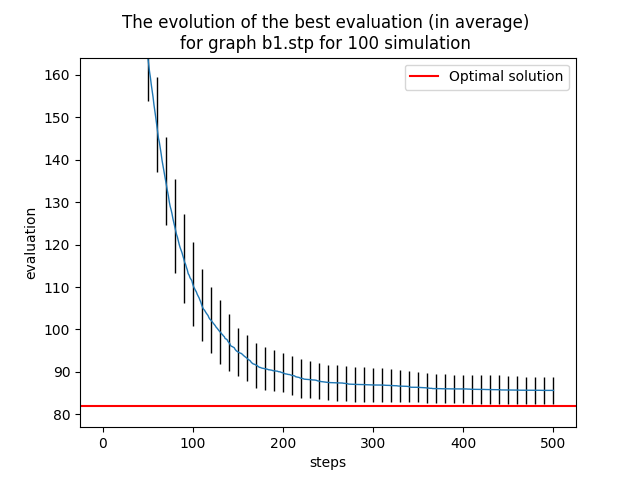
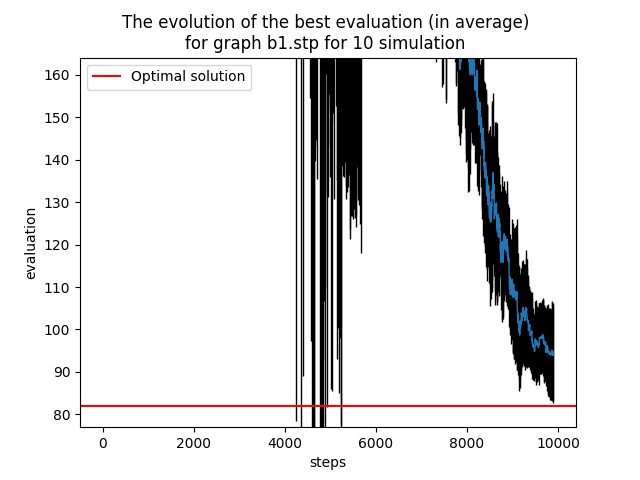
annealing, simulations modified -> recuit added a best_list return

diff --git a/main.py b/main.py
@@ -1,5 +1,6 @@
 import Approximation
 import Genetic_Algorithm as GA
+import Annealing_Algorithm as AA
 import matplotlib.pyplot as plt
 import numpy as np
 
@@ -55,49 +56,36 @@ def simulation_Approximation() :
         print(Approximation.eval_sol(graph,terms,sol))
     """
 
-def simulation_Genetic_evolution_best_evaluation():
+def simulation_GA():
     number_of_simulation = 100
-    results = [(None, None) for _ in range (number_of_simulation)]
-    res = [None for _ in range(number_of_simulation)]
-    nfile = 2
+    nfile = 1
     tfile = 'b'
     path = path_B
     if tfile == 'c':
         path = path_C
-    #simulation on b1.stp
-    for i in range(len(res)):
-        print(f'SIMULATION {i+1}: ')
-        GA.eval_file2(nfile, path+tfile, results, i)
-        res[i] = results[i][1]
-        #plt.plot(range(len(results[i][1])),res[i], color = '#7DD6CA')
-    average_values = [0 for i in range(len(res[0]))]
-    error_values = [0 for i in range(len(average_values))]
-    for i in range(len(res)):
-        for j in range(len(average_values)):
-            average_values[j] += res[i][j]
-    average_values = np.array(average_values) / number_of_simulation
-    for i in range(len(res)):
-        for j in range(len(error_values)):
-            if (j%10==0):
-                error_values[j] += (res[i][j] - average_values[j])**2
-    for i in range(len(error_values)):
-        error_values[i] = np.sqrt(error_values[i]/ number_of_simulation)
-
-    print(average_values[-1])
-    print(error_values[-1])
-
-
-
-    plt.errorbar(range(len(average_values)),average_values,yerr = error_values, ecolor = "black", linewidth = 1, elinewidth = 1)
-
-    #for i in range(len(res)):
-    #   print(f'{i+1}eme liste : {min(res[i])}')
-    #plt.scatter(range(number_of_simulation),[res[i][-1] for i in range(25)])
     opt = 0
     if tfile == 'b':
         opt = B_opts[nfile-1]
     else:
         opt = C_opts[nfile-1]
+    results = GA.simulation(number_of_simulation,nfile,path+tfile)
+    res = [np.array(p[1]) for p in results]
+    
+    average_values = np.zeros(len(res[0]))
+    for r in res:
+        average_values =average_values + r
+    average_values = np.array(average_values) / number_of_simulation
+    
+    error_values = [0 for i in range(len(average_values))]
+    for j in range(len(error_values)):
+        if j%10==0 :
+            for i in range(len(res)):
+                error_values[j] += (res[i][j] - average_values[j])**2
+            error_values[j] = np.sqrt(error_values[j]/number_of_simulation)
+
+    plt.errorbar(range(len(average_values)),average_values,yerr = error_values, ecolor = "black", linewidth = 1, elinewidth = 1)
+
+
     plt.axhline(opt, color='red', label = "Optimal solution")
     plt.title(f'The evolution of the best evaluation (in average) \nfor graph {tfile}{nfile}.stp for {number_of_simulation} simulation ')
     plt.xlabel("steps")
@@ -107,6 +95,51 @@ def simulation_Genetic_evolution_best_evaluation():
     plt.savefig(f'best_{tfile}{nfile}_evaluation_genetic_ones_init.png')
     plt.show()
 
+
+
+
+def simulation_recuit():
+    number_of_simulation = 10
+    nfile = 1
+    tfile = 'b'
+    path = path_B
+    if tfile == 'c':
+        path = path_C
+    opt = 0
+    if tfile == 'b':
+        opt = B_opts[nfile-1]
+    else:
+        opt = C_opts[nfile-1]
+    results = AA.simulation(number_of_simulation,nfile,path+tfile)
+    res = [np.array(p[1]) for p in results]
+    
+    average_values = np.zeros(len(res[0]))
+    for r in res:
+        average_values =average_values + r
+    average_values = np.array(average_values) / number_of_simulation
+    
+    error_values = [0 for i in range(len(average_values))]
+    for j in range(len(error_values)):
+        if j%10==0 :
+            for i in range(len(res)):
+                error_values[j] += (res[i][j] - average_values[j])**2
+            error_values[j] = np.sqrt(error_values[j]/number_of_simulation)
+
+    plt.errorbar(range(len(average_values)),average_values,yerr = error_values, ecolor = "black", linewidth = 1, elinewidth = 1)
+
+
+    plt.axhline(opt, color='red', label = "Optimal solution")
+    plt.title(f'The evolution of the best evaluation (in average) \nfor graph {tfile}{nfile}.stp for {number_of_simulation} simulation ')
+    plt.xlabel("steps")
+    plt.ylabel("evaluation")
+    plt.legend()
+    plt.ylim((opt-5,max(opt*2,average_values[-1]+10)))
+    plt.savefig(f'best_{tfile}{nfile}_evaluation_genetic_ones_init.png')
+    plt.show()
+
+
+
+    
 if __name__ == '__main__' :
     print('Simulation begins')
     print('------------------------------------------------------------------------------------')
@@ -118,13 +151,13 @@ if __name__ == '__main__' :
     print('------------------------------------------------------------------------------------')
     print('processing simulation for Genetic_Algorithm.py')
     print(f'best for c1 = {C_opts[0]}')
-    res = [(None, None), None]
-    GA.eval_file(1, path_C+'c', res, 0)
-    print(f'genetic = {res[0][0]}')
-    Approximation.eval_file(0, path_C+'c', res, 1)
-    print(f'Approximation = {res[1]}')
-    plt.plot(range(len(res[0][1])), res[0][1])
-    plt.show()
-    #simulation_Genetic_evolution_best_evaluation()
+    #res = [(None, None), None]
+    #GA.eval_file(1, path_C+'c', res, 0)
+    #print(f'genetic = {res[0][0]}')
+    #Approximation.eval_file(0, path_C+'c', res, 1)
+    #print(f'Approximation = {res[1]}')
+    #plt.plot(range(len(res[0][1])), res[0][1])
+    #plt.show()
+    simulation_recuit()
     print('simulation for Genetic_Algorithm.py done')
     print('++++++++++++++++++++++++++++++++++++++++++++++++++++++++++++++++++++++++++++++++++++')

diff --git a/Annealing_Algorithm.py b/Annealing_Algorithm.py
@@ -15,11 +15,12 @@ def recuit(graph : nx.Graph, terms : list, T_init, T_limit, lamb = .99) -> set :
     :param terms: the list of terminal nodes
     :param T_init: the initial temperature
     :param T_limit: the lowest temperature allowed
-    :return: the solution found which is a set of edges
+    :return: the solution found which is a set of edges and the evolution of the best evaluation
     """
     best = init(graph)
     T = T_init
     eval_best = eval_annealing(best, graph, terms)
+    best_list = [eval_best]
     m = 0
     #sol = init(graph)
     while(T>T_limit):
@@ -29,19 +30,20 @@ def recuit(graph : nx.Graph, terms : list, T_init, T_limit, lamb = .99) -> set :
             prob = 1
         else :
             prob = exp((eval_best - eval_sol)/T)
-            print(f'prob = {prob}')
+            #print(f'prob = {prob}')
         rand = rd.random()
         if rand <= prob :
             best = cp.deepcopy(sol)
             eval_best = eval_sol
-            print('best changed !!!!!!!!!!!!!!!!!')
-        print(f'eval_sol = {eval_sol}')
-        print(f'eval_best = {eval_best}')
+            #print('best changed !!!!!!!!!!!!!!!!!')
+        #print(f'eval_sol = {eval_sol}')
+        #print(f'eval_best = {eval_best}')
         T *= lamb
         m += 1
-    print(f'm = {m}')
-    print(eval_best)
-    return Genetic_Algorithm.bool_to_edges(best, [e for e in graph.edges])
+        best_list.append(eval_best)
+    #print(f'm = {m}')
+    #print(eval_best)
+    return Genetic_Algorithm.bool_to_edges(best, [e for e in graph.edges]), best_list
 
 def init(graph):
     """
@@ -61,7 +63,7 @@ def eval_annealing(sol, graph, terms : list, malus = 500):
     :param graph: the graph for each we search a solution
     :param terms: the list of terminal nodes
     :param malus: the coefficient that we use to penalize bad solutions
-    :return: the evaluation of the solution which is an integer
+    :return: the evaluation of the solution that is an integer
     """
     graph_sol = nx.Graph()
     nb_absent_terms = len(terms)
@@ -101,6 +103,50 @@ def rand_neighbor(solution : list, nb_changes = 1) :
         i = rd.choice(range(len(new_solution)))
         new_solution[i] = not new_solution[i]
     return new_solution
+
+
+def eval_file(number_file : int, path : str, res : list, i : int):
+    """
+    Given the file_s number, this function finds a solution for the associated graph and store it in the list passed as argument
+    :param number_file : the file's number
+    :param path : the path to the file
+    :param res : the list in which the result will be stored in
+    :param i : the index of the free place in the list
+    :return : the total weight of the solution
+    """
+
+    print(f'Processing file {path+str(number_file)}.stp begins for recuit algorithm.\n')
+    my_class = Approximation.MySteinlibInstance()
+    with open(path+f'{number_file}.stp') as file:
+        my_parser = Approximation.SteinlibParser(file, my_class)
+        my_parser.parse()
+        terms = my_class.terms
+        graph = my_class.my_graph
+        sol, best_list = recuit(graph,terms,20000,1,0.999)
+        result = Approximation.eval_sol(graph,terms,sol)
+    print(f'Processing file {path+str(number_file)}.stp ended.\n')
+    res[i] = (result,best_list)
+
+
+def simulation(data_size : int, nbr_file : int, path : str):
+    """
+    this function does the simulation with our data using parallel operations
+    :param data_size : the number of simulations
+    :param nbr_file : which file we are evaluating
+    :param path : the path to the file
+    :return : results of the simulation
+    """
+
+    res = [0 for _ in range(data_size)]
+    threads = []
+    for i in range(data_size):
+        threads.append(Thread(target=eval_file, args=(nbr_file,path,res,i)))
+        threads[i].start()
+
+    for i in range(data_size):
+        threads[i].join()
+    print(res)
+    return res
 
 if __name__ == '__main__' :
     #stein_file = 'data/test.std'

diff --git a/Genetic_Algorithm.py b/Genetic_Algorithm.py
@@ -168,18 +168,19 @@ def eval_file(number_file : int, path : str, res : list, i : int):
     res[i] = (result, best_list)
 
 
-def simulation(data_size : int, path : str):
+def simulation(data_size : int,nbr_file : int, path : str):
     """
     This function does the simulation with our data using parallel operations
-    :param data_size: The number of files
-    :param path: The path to those files
+    :param data_size: The number of simulations
+    :param nbr_file : which file we are evaluating
+    :param path: The path to the file
     :return: results of the simulation
     """
 
     res = [0 for _ in range(data_size)]
     threads = []
     for i in range(data_size) :
-        threads.append(Thread(target=eval_file, args=(i, path, res, i)))
+        threads.append(Thread(target=eval_file, args=(nbr_file, path, res, i)))
         threads[i].start()
 
     for i in range(data_size):
